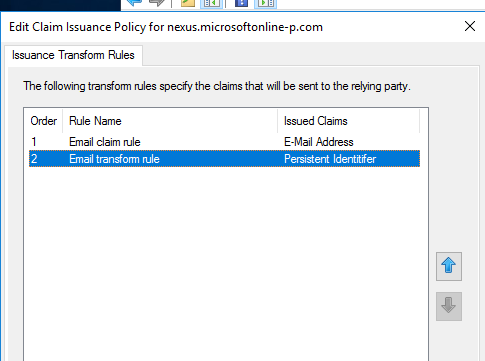
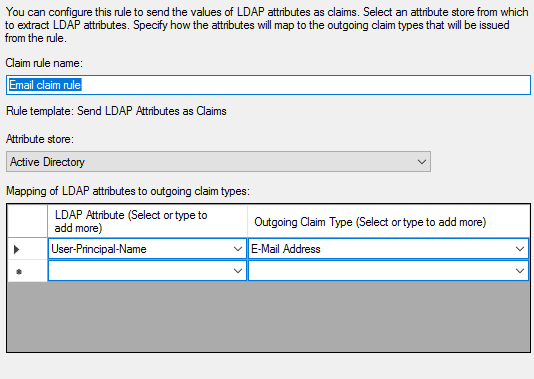
ADFS Confiugration

diff --git a/adfs-configuration.md b/adfs-configuration.md
@@ -1,0 +1,43 @@
+# Overview 
+This section walks through the configuration of the ADFS Claims setup to federate with Azure AD Direct Federation. Most of the documentation came right from https://docs.microsoft.com/en-us/azure/active-directory/b2b/direct-federation-adfs
+
+# Steps 
+1. Login into ADFS virtual machine and launch the ADFS Management tool 
+2. In the navigation pane, select Service > Claim Descriptions.
+3. Under Actions, select Add Claim Description and specify the following values:
+    * Display Name: Persistent Identifier
+    * Claim identifier: urn:oasis:names:tc:SAML:2.0:nameid-format:persistent
+    * Select the check box for Publish this claim description in federation metadata as a claim type that this federation service can accept.
+    * Select the check box for Publish this claim description in federation metadata as a claim type that this federation service can send.  
+    ![Persistent](./assets/adfs-claims-rule-persistent-identifier.png)
+
+4. Select Trust Relationships > Relying Party Trusts.
+5. Under Actions, select Add Relying Party Trust.
+    * Select Data Source, use the option Import data about the relying party published online . Use this URL- https://nexus.microsoftonline-p.com/federationmetadata/saml20/federationmetadata.xml. 
+    * Leave other default selections. 
+    * Select Close.
+
+6. The Edit Claim Rules wizard should opens but if it doesn't then right click on the nexus.microsoftonline-p.com Trust and select Edit Claims Inssuance Policy  
+    ![Issuance](./assets/adfs-claims-issuance.png)
+
+7. Select Add Rule. 
+    * Rule Type: Send LDAP Attributes as Claims. 
+    * Configure Claim Rule:
+        * Claim rule name: Email claim rule
+        * Attribute store: Active Directory
+        * LDAP Attribute: E-Mail-Addresses
+        * Outgoing Claim Type: E-Mail Address  
+    ![LDAP](./assets/adfs-claims-rule-email-claims.png)
+
+8. Select Add Rule. 
+    * Rule Type: Select Transform an Incoming Claim
+    * Configure Claim Rule:
+        * Claim rule name: Email transform rule
+        * Incoming claim type: E-mail Address
+        * Outgoing claim type: Name ID
+        * Outgoing name ID format: Persistent Identifier  
+    ![Transform](./assets/adfs-claims-rule-email-transform.png)
+
+9. Click through all OKs and Applies.  
+
+10. The AD FS server is now configured for direct federation using the SAML 2.0 protocol.
